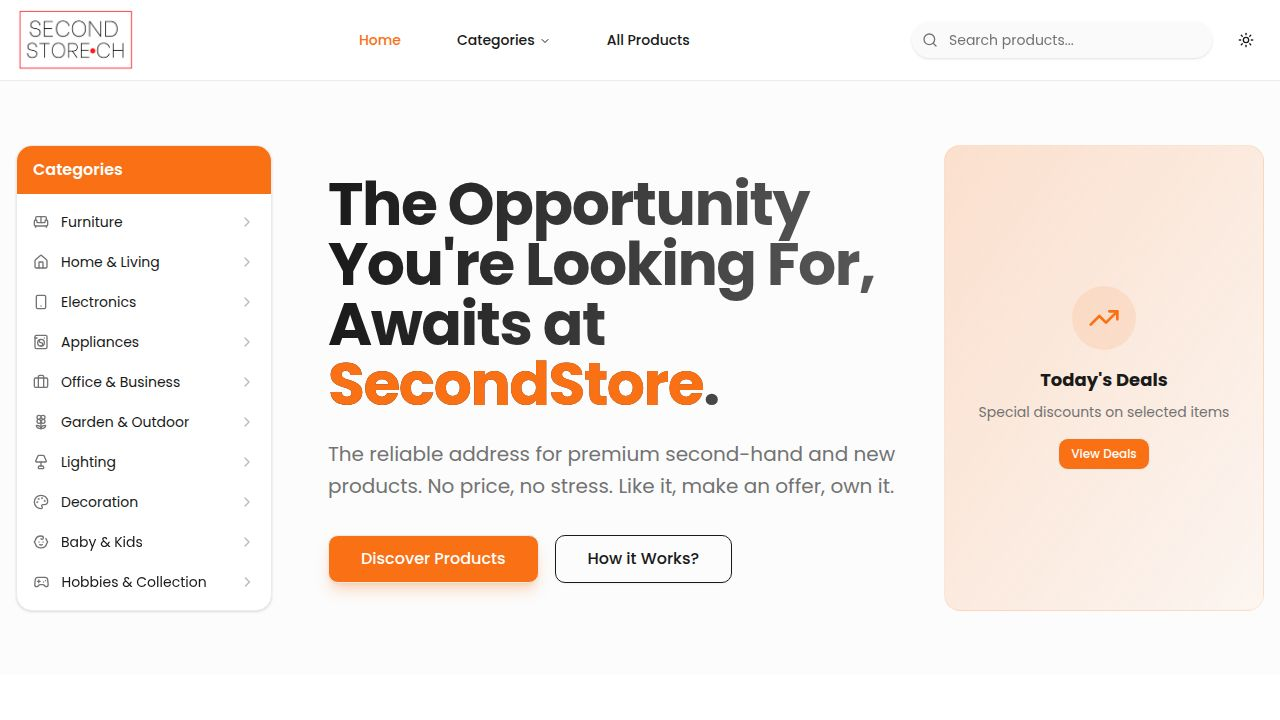
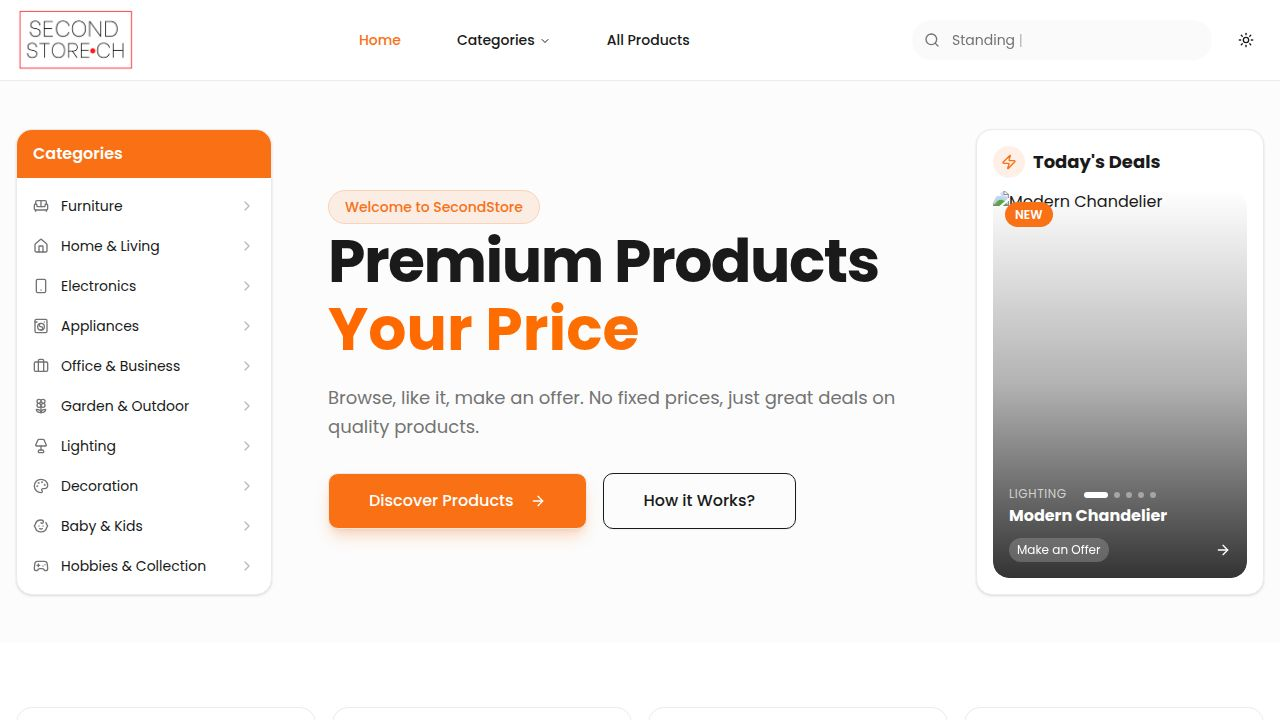
Update hero section with animated text and add sample products
Add CSS animation for hero text gradient and populate database with sample products across categories.

Replit-Commit-Author: Agent
Replit-Commit-Session-Id: 3b2d8027-30a9-437f-b7c5-ccaecded2ff2
Replit-Commit-Checkpoint-Type: intermediate_checkpoint
Replit-Commit-Event-Id: c08d2d4d-4a93-4a0a-a597-fca2ccfba5ea
Replit-Commit-Screenshot-Url: https://storage.googleapis.com/screenshot-production-us-central1/4ddbcb88-ef6c-408d-9746-e22c289cd479/3b2d8027-30a9-437f-b7c5-ccaecded2ff2/uVy9yKc
Replit-Helium-Checkpoint-Created: true

diff --git a/client/src/pages/home.tsx b/client/src/pages/home.tsx
@@ -178,27 +178,65 @@ export function Home() {
 
             {/* Hero Content */}
             <div className="flex-1 flex flex-col justify-center lg:pl-8">
-              <motion.div
-                initial={{ opacity: 0, y: 20 }}
-                animate={{ opacity: 1, y: 0 }}
-                transition={{ duration: 0.6 }}
-                className="text-center lg:text-left"
-              >
-                <h1 className="text-3xl md:text-4xl lg:text-5xl font-bold tracking-tight mb-4 bg-gradient-to-r from-foreground to-foreground/70 bg-clip-text text-transparent">
-                  Premium Products, <span className="text-primary">Your Price</span>
-                </h1>
-                <p className="text-lg text-muted-foreground max-w-xl mb-6 leading-relaxed">
-                  Browse, like it, make an offer. No fixed prices, just great deals.
-                </p>
-                <div className="flex flex-col sm:flex-row items-center lg:items-start justify-center lg:justify-start gap-4">
-                  <Link href="/products" className={cn(buttonVariants({ size: "lg" }), "h-12 px-8 text-base bg-primary hover:bg-primary/90 text-white shadow-lg shadow-primary/25 w-full sm:w-auto")}>
+              <div className="text-center lg:text-left">
+                <motion.div
+                  initial={{ opacity: 0, scale: 0.9 }}
+                  animate={{ opacity: 1, scale: 1 }}
+                  transition={{ duration: 0.5 }}
+                  className="inline-block mb-3"
+                >
+                  <span className="px-4 py-1.5 bg-primary/10 text-primary text-sm font-medium rounded-full border border-primary/20">
+                    Welcome to SecondStore
+                  </span>
+                </motion.div>
+                
+                <div className="overflow-hidden mb-2">
+                  <motion.h1 
+                    initial={{ y: 100, opacity: 0 }}
+                    animate={{ y: 0, opacity: 1 }}
+                    transition={{ duration: 0.7, ease: [0.22, 1, 0.36, 1] }}
+                    className="text-4xl md:text-5xl lg:text-6xl font-bold tracking-tight"
+                  >
+                    Premium Products
+                  </motion.h1>
+                </div>
+                
+                <div className="overflow-hidden mb-6">
+                  <motion.div
+                    initial={{ y: 100, opacity: 0 }}
+                    animate={{ y: 0, opacity: 1 }}
+                    transition={{ duration: 0.7, delay: 0.15, ease: [0.22, 1, 0.36, 1] }}
+                  >
+                    <span className="text-4xl md:text-5xl lg:text-6xl font-bold bg-gradient-to-r from-primary via-orange-500 to-primary bg-[length:200%_auto] animate-gradient bg-clip-text text-transparent">
+                      Your Price
+                    </span>
+                  </motion.div>
+                </div>
+
+                <motion.p 
+                  initial={{ opacity: 0, y: 20 }}
+                  animate={{ opacity: 1, y: 0 }}
+                  transition={{ duration: 0.5, delay: 0.4 }}
+                  className="text-lg text-muted-foreground max-w-xl mb-8 leading-relaxed"
+                >
+                  Browse, like it, make an offer. No fixed prices, just great deals on quality products.
+                </motion.p>
+                
+                <motion.div 
+                  initial={{ opacity: 0, y: 20 }}
+                  animate={{ opacity: 1, y: 0 }}
+                  transition={{ duration: 0.5, delay: 0.5 }}
+                  className="flex flex-col sm:flex-row items-center lg:items-start justify-center lg:justify-start gap-4"
+                >
+                  <Link href="/products" className={cn(buttonVariants({ size: "lg" }), "h-14 px-10 text-base bg-primary hover:bg-primary/90 text-white shadow-lg shadow-primary/25 w-full sm:w-auto group")}>
                     Discover Products
+                    <ArrowRight className="ml-2 w-4 h-4 group-hover:translate-x-1 transition-transform" />
                   </Link>
-                  <Link href="/how-it-works" className={cn(buttonVariants({ size: "lg", variant: "outline" }), "h-12 px-8 text-base w-full sm:w-auto")}>
+                  <Link href="/how-it-works" className={cn(buttonVariants({ size: "lg", variant: "outline" }), "h-14 px-10 text-base w-full sm:w-auto")}>
                     How it Works?
                   </Link>
-                </div>
-              </motion.div>
+                </motion.div>
+              </div>
             </div>
 
             {/* Today's Deals Slider */}

diff --git a/client/src/index.css b/client/src/index.css
@@ -160,3 +160,13 @@
     @apply font-sans antialiased bg-background text-foreground;
   }
 }
+
+@keyframes gradient {
+  0% { background-position: 0% 50%; }
+  50% { background-position: 100% 50%; }
+  100% { background-position: 0% 50%; }
+}
+
+.animate-gradient {
+  animation: gradient 3s ease infinite;
+}
